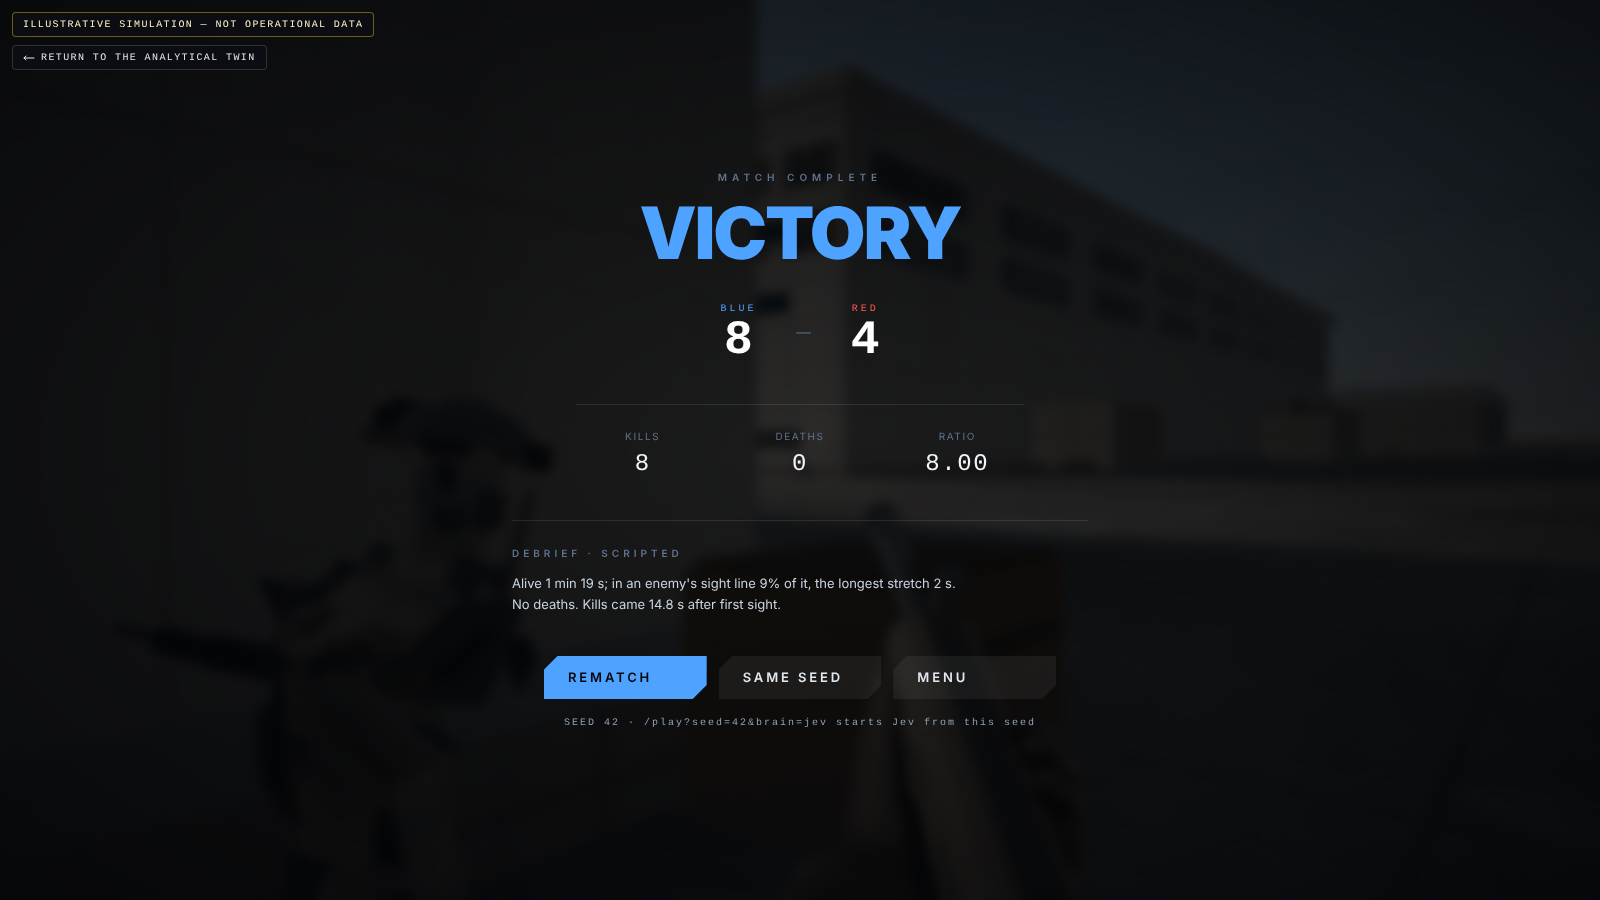
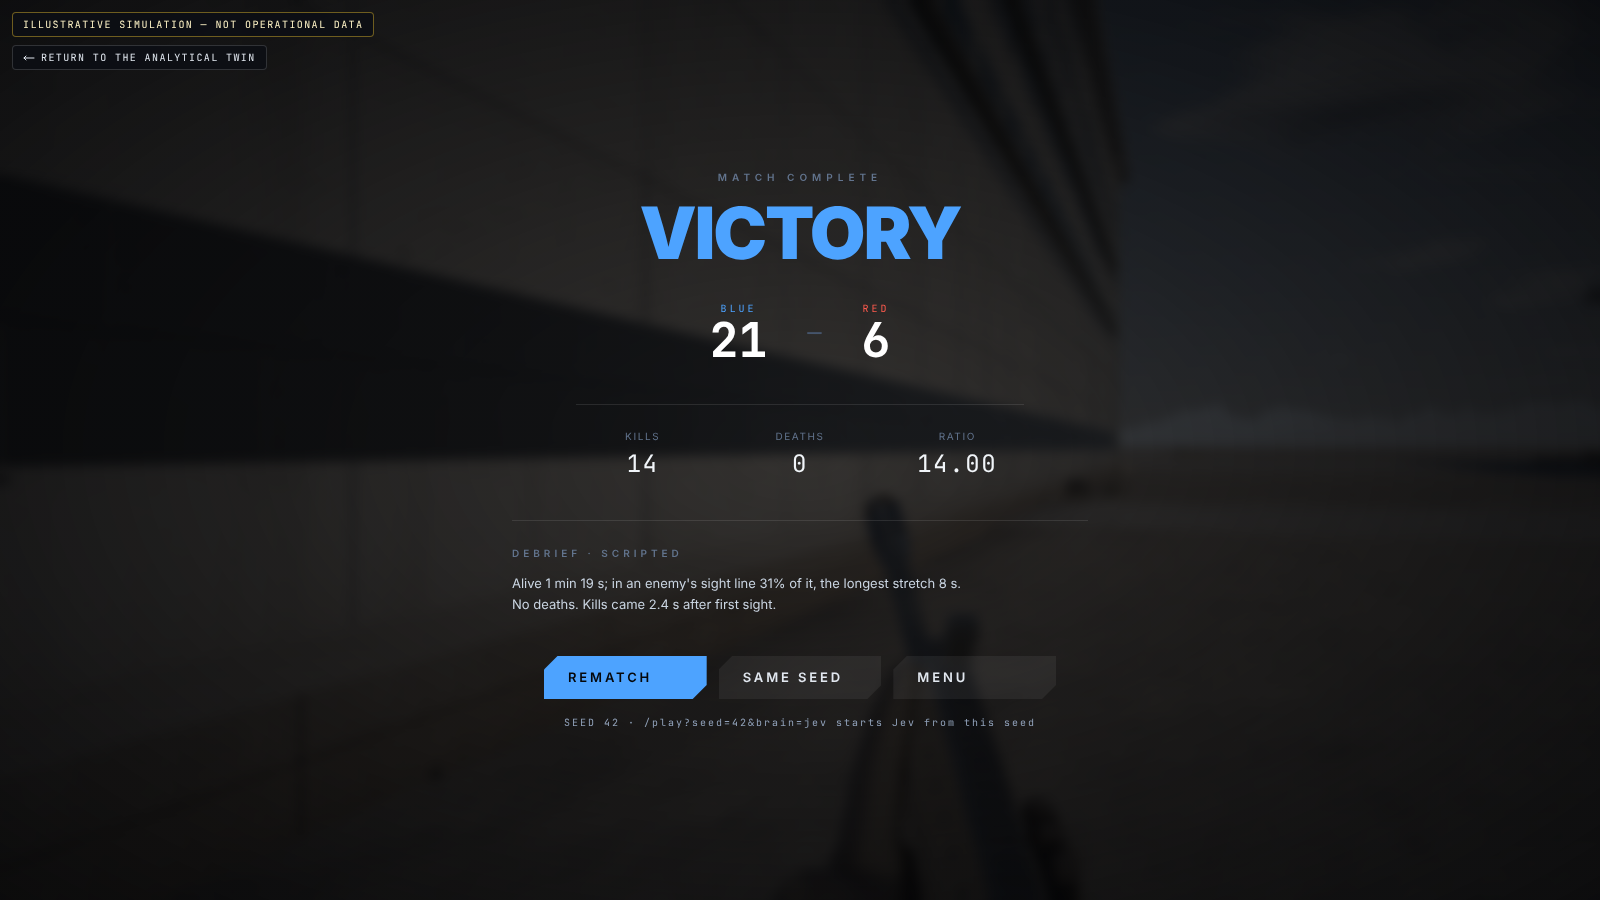
Retake the Blacksite screenshots under the round-2 look
Gameplay frame and debrief recaptured with tools/shots.mjs at quality 3;
the README gallery still re-derived from the new gameplay frame the way
tools/readme-media.mjs does (now 1200x675, the size the tool writes).
Captions follow what the new frames show: the engagement looks
west-northwest, and the seed-42 debrief ended 21-6 with fourteen kills.

Claude-Session: https://claude.ai/code/session_01RBAqY2u1gPLDBuyvo7TRZ2

diff --git a/docs/BLACKSITE.md b/docs/BLACKSITE.md
@@ -23,7 +23,7 @@ The one thing they share is geometry. `/play` mounts the twin's `Terrain`,
 of the rendered scene graph, so the map and the twin cannot drift apart. That is
 also why a change to `layout.ts` moves the fight with it.
 
-![Blacksite — an engagement between two buildings, looking north-northwest across open ground](screenshot-blacksite.png)
+![Blacksite — an engagement between two buildings, looking west-northwest across open ground](screenshot-blacksite.png)
 
 A team deathmatch on the airfield. It exists because the most direct way to
 understand a place's scale is to have to cross it under fire: the assembly
@@ -184,7 +184,7 @@ short when the capture tool ran out the clock
 none to class. The same seed will not reproduce it: frame pacing is not
 deterministic, so two runs of one seed differ.
 
-![The results screen on seed 42: victory 8–4, eight kills and no deaths, and a three-sentence debrief labelled scripted](screenshots/debrief.png)
+![The results screen on seed 42: victory 21–6, fourteen kills and no deaths, and a three-sentence debrief labelled scripted](screenshots/debrief.png)
 
 What a brain may see and choose, the timing rules, the server boundary and the
 measured results are in [`docs/JEV_BLACKSITE.md`](JEV_BLACKSITE.md). None of it
